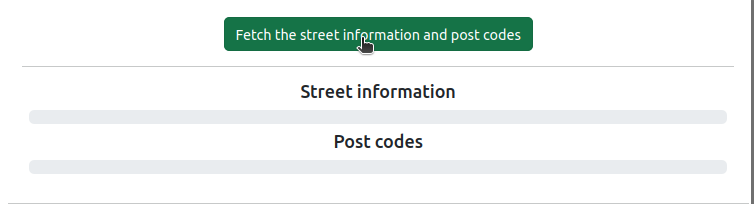
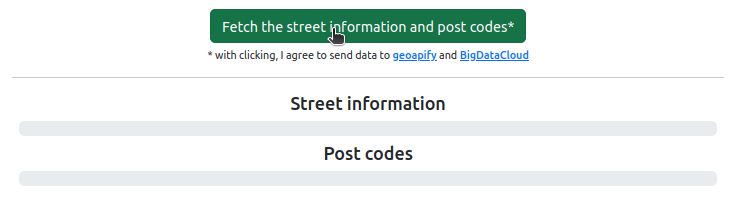
#44 update privacy notes and make it obvious that data is communicated to a third party

Changed region(s): [[0.0, 0.0, 0.9986, 1.0], [0.3745, 0.4158, 0.6242, 0.5644], [0.4369, 0.6535, 0.5617, 0.802]]

diff --git a/website/src/components/streets/TrackDataOverview.tsx b/website/src/components/streets/TrackDataOverview.tsx
@@ -84,6 +84,7 @@ export function TrackDataOverview() {
                 variant={'success'}
                 onClick={() => dispatch(resolvePositions)}
                 disabled={runningRequests || runningPostCodeRequests || isLoading}
+                title={'Fetching the street information from geoapify and BigDataCloud'}
             >
                 {runningRequests || runningPostCodeRequests || isLoading ? (
                     <span>
@@ -93,9 +94,19 @@ export function TrackDataOverview() {
                         {isLoading && !runningRequests && !runningPostCodeRequests && <span>Grouping Streets</span>}
                     </span>
                 ) : (
-                    <span>Fetch the street information and post codes</span>
+                    <span>Fetch the street information and post codes*</span>
                 )}
             </Button>
+            <p className={'m-1'} style={{ fontSize: '12px' }}>
+                * with clicking, I agree to send data to{' '}
+                <a href={'https://www.geoapify.com/'} target={'_blank'} referrerPolicy={'no-referrer'}>
+                    geoapify
+                </a>{' '}
+                and{' '}
+                <a href={'https://www.bigdatacloud.com/'} target={'_blank'} referrerPolicy={'no-referrer'}>
+                    BigDataCloud
+                </a>
+            </p>
             <hr />
             <h5>Street information</h5>
             {requestProgress !== undefined && (

diff --git a/docs/Privacy.md b/docs/Privacy.md
@@ -1,5 +1,15 @@
 # Privacy
 
-The website does not communicate any data to a server.
+In principle, the website does not communicate any data to a server.
+
 Files are locally stored within the local storage of the browser, to continue working, even after a browser restart.
 All data can be cleared from the browser.
+
+# Street name resolving and post codes
+If you use the third section, two external API are used to retrieve the street information and the post codes.
+By clicking the fetch button you accept to send your track data to them: 
+
+## [GeoApify](https://www.geoapify.com/)
+
+## [BigDataCloud](https://www.bigdatacloud.com/)
+
